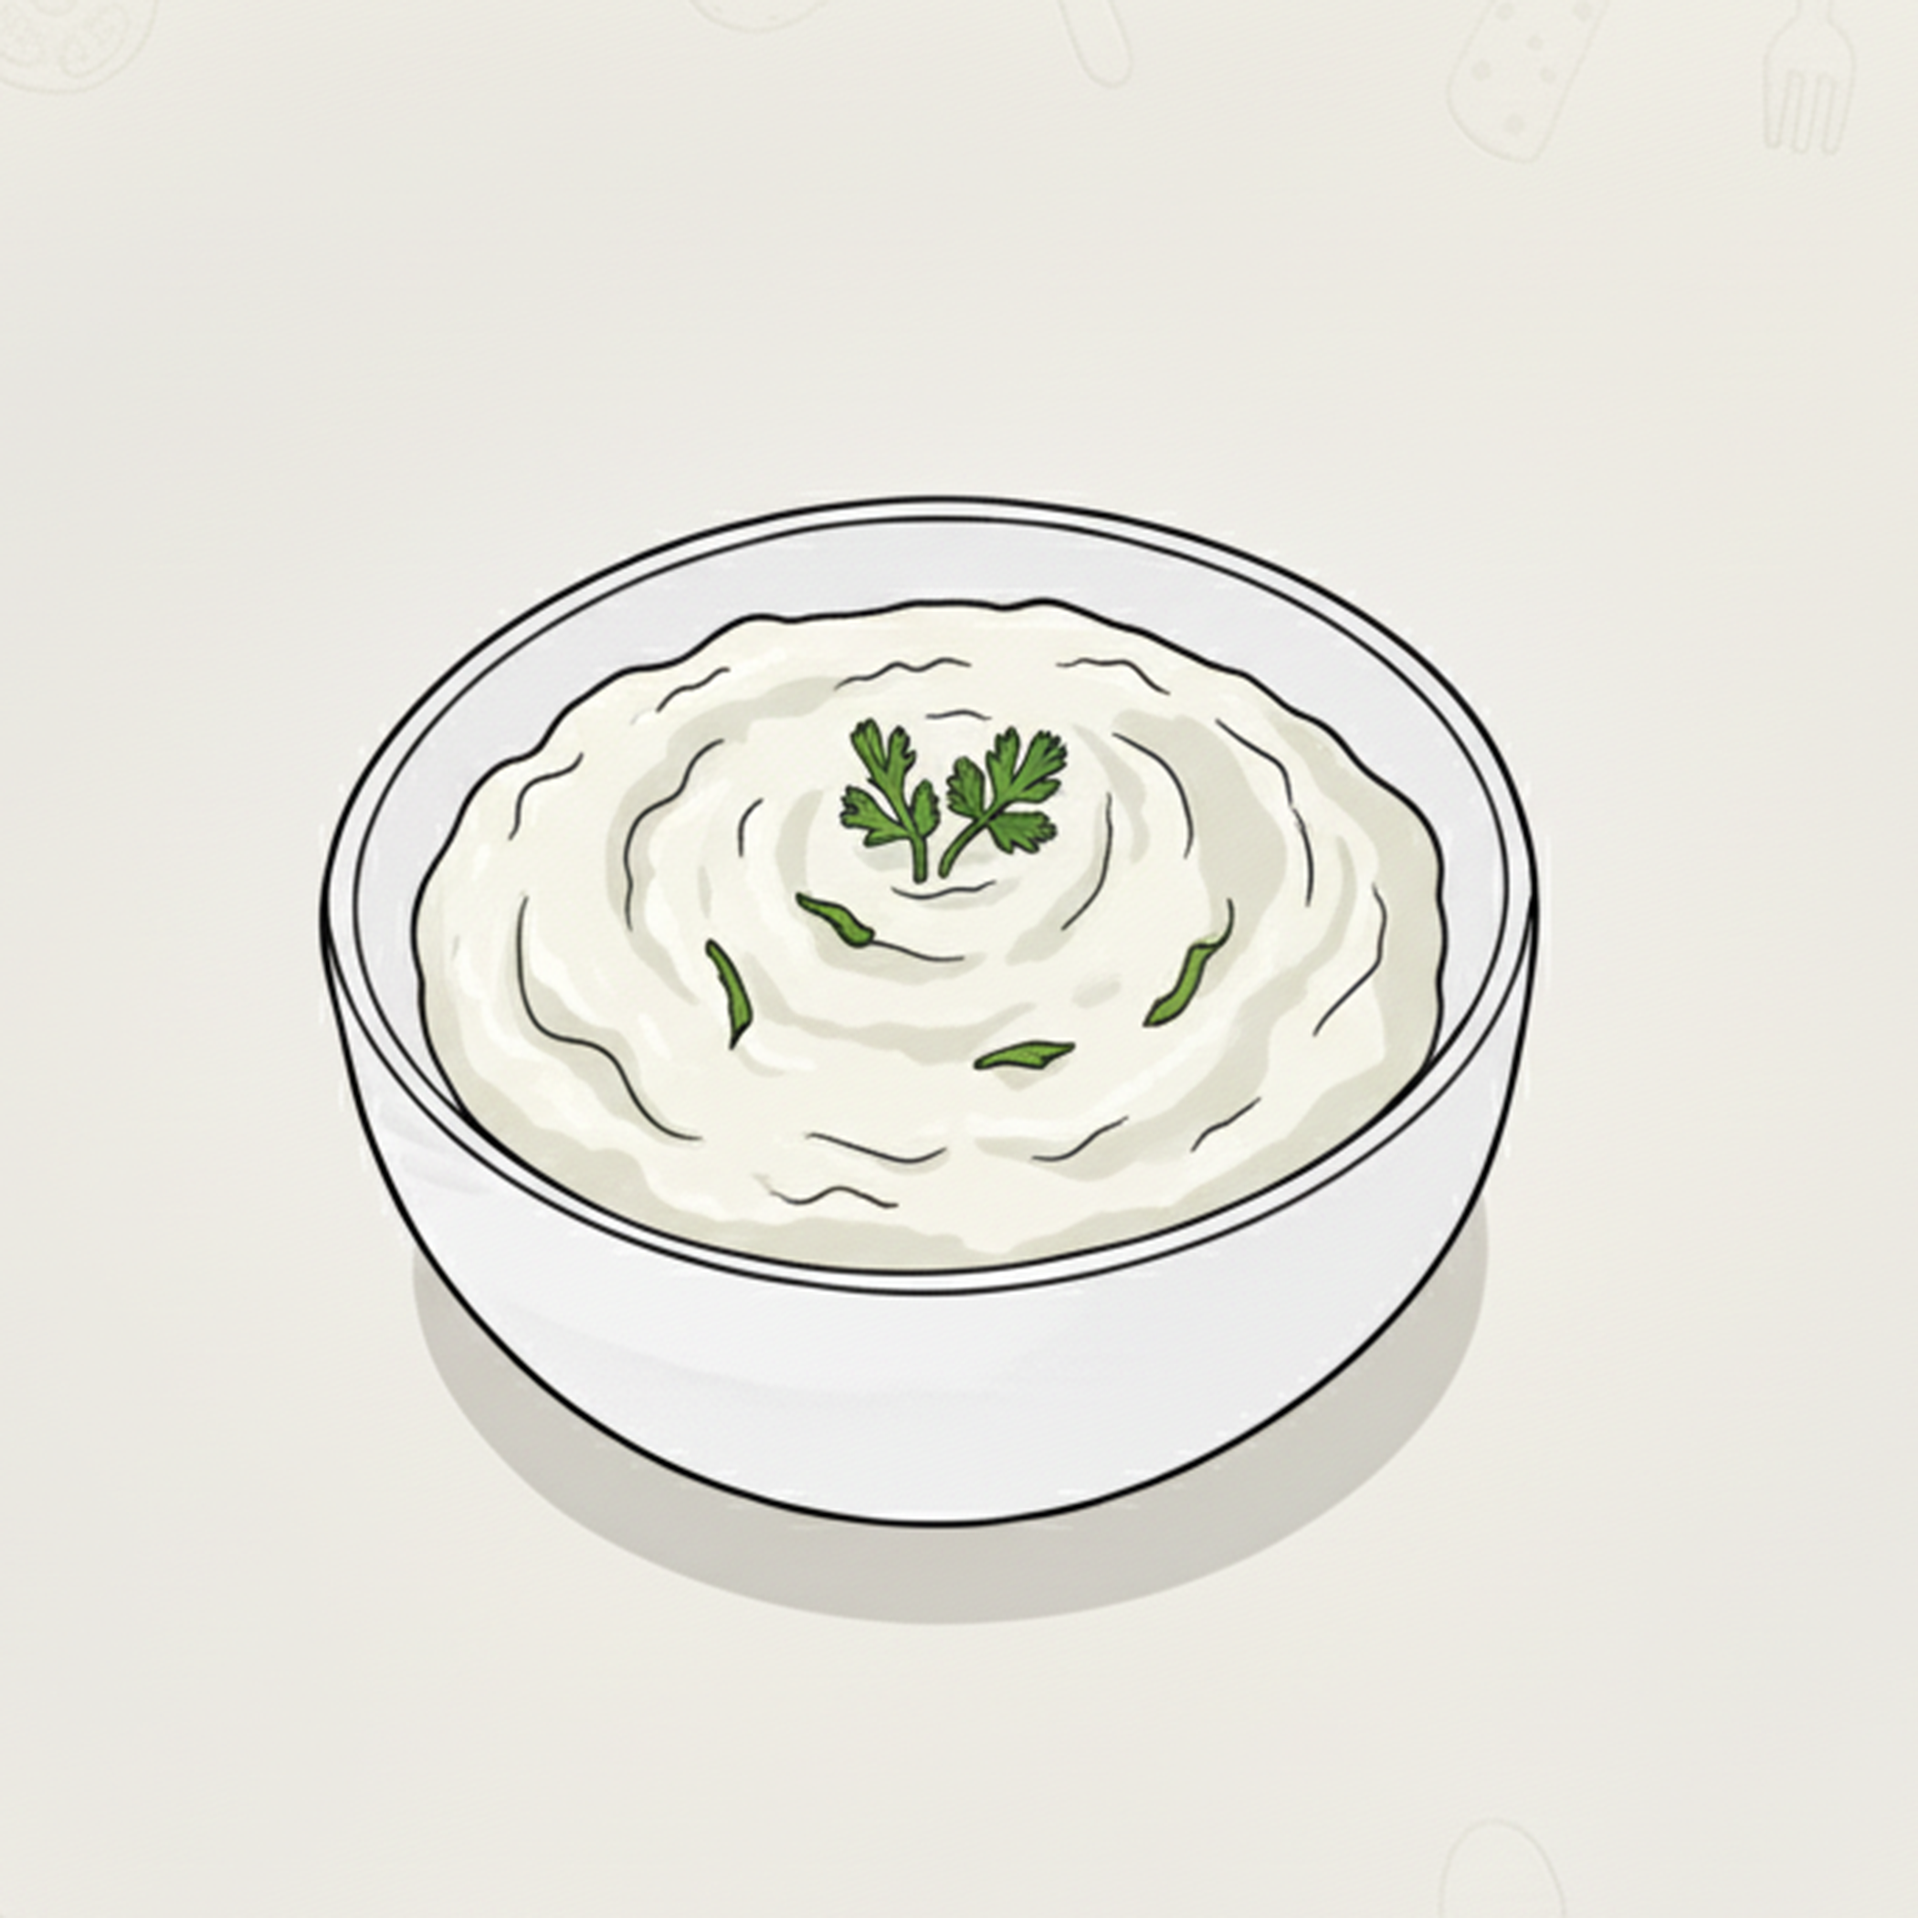
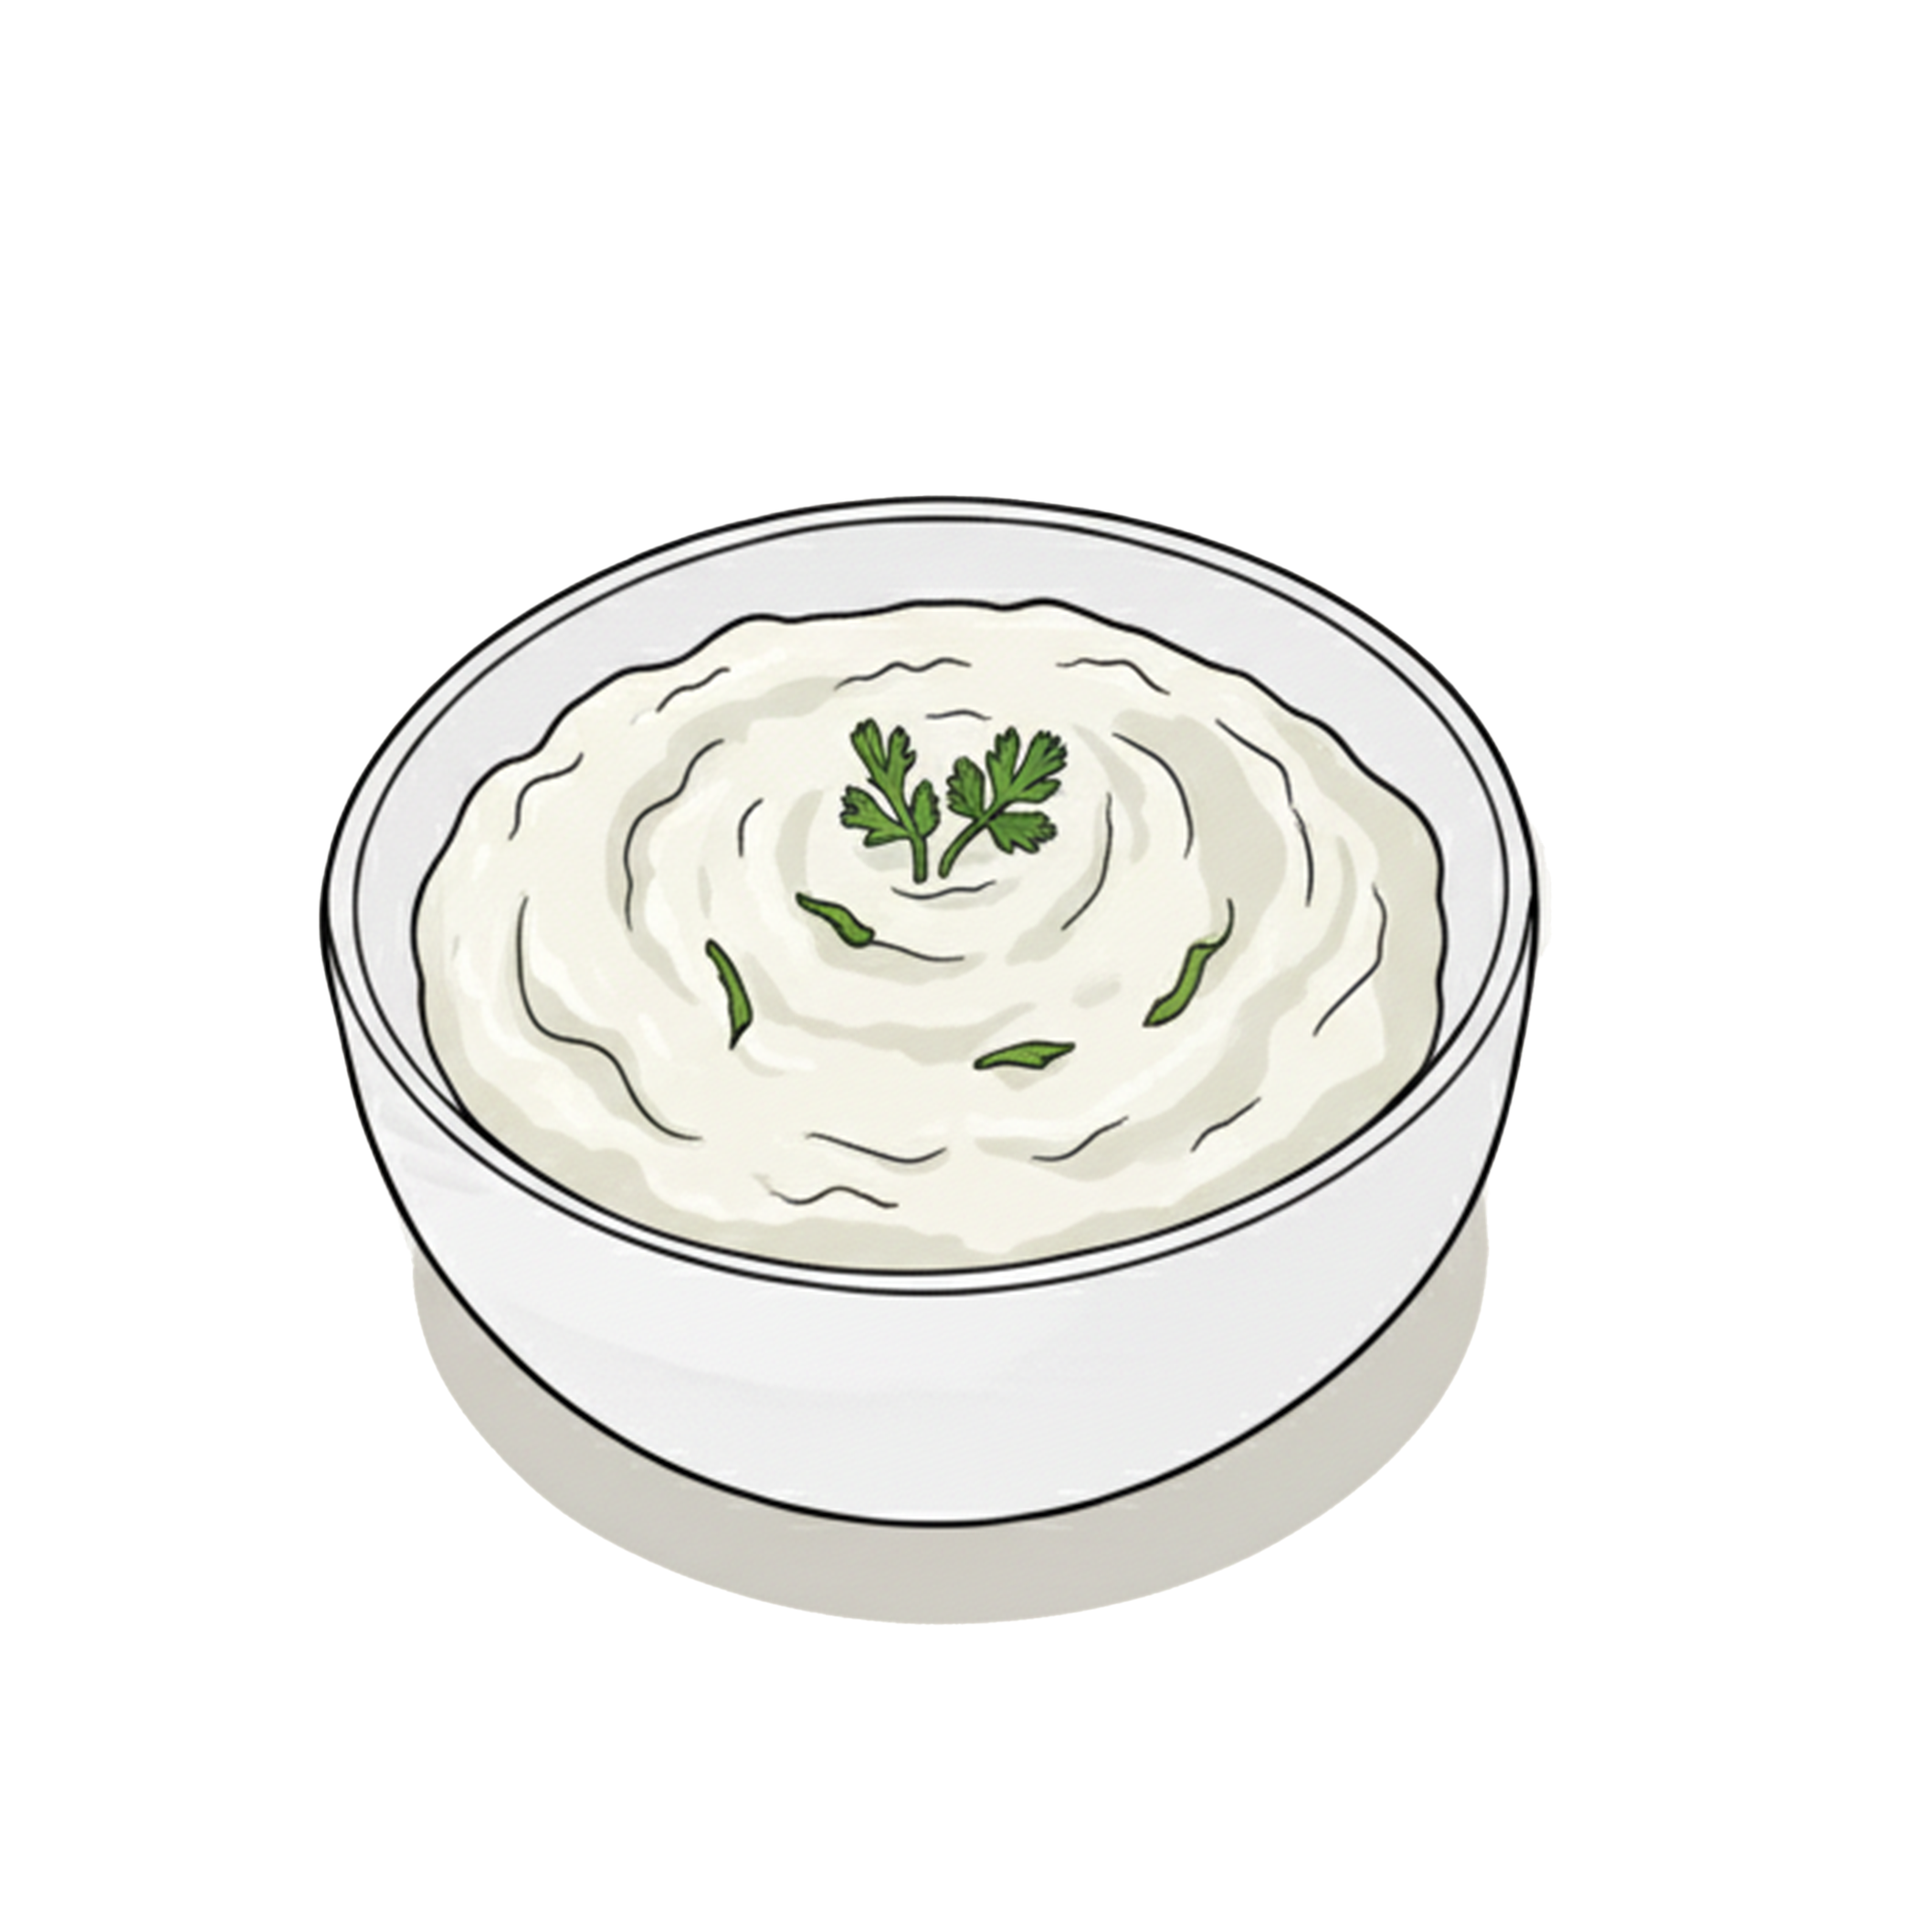
finished addons section

diff --git a/components/User/Add-on/Addons.tsx b/components/User/Add-on/Addons.tsx
@@ -1,32 +1,32 @@
-import { useMockSpecials } from "@/hooks/use-MockSpecials";
+import { useMockAddons } from "@/hooks/use-MockAddons";
 import React from "react";
 import {
-  Animated,
-  Dimensions,
-  Easing,
-  Image,
-  Linking,
-  Text,
-  TouchableOpacity,
-  View,
+    Animated,
+    Dimensions,
+    Easing,
+    Image,
+    Linking,
+    Text,
+    TouchableOpacity,
+    View,
 } from "react-native";
 
-const Specials = () => {
+const AddonsItems = () => {
   const screenWidth = Dimensions.get("window").width;
   const width = Math.min(Math.max(screenWidth * 0.45, 300), 130);
   const height = width * 0.8;
   const mobile = 8547266801;
 
   const imageMap: Record<string, any> = {
-    "chickencurry.png": require("../../../assets/User/chickencurry.png"),
-    "beefcurry.png": require("../../../assets/User/beefcurry.png"),
-    "chickenfry.png": require("../../../assets/User/chickenfry.png"),
     "curd.png": require("../../../assets/User/curd.png"),
-    "eggcurry.png": require("../../../assets/User/eggcurry.png"),
+    "chickenfry.png": require("../../../assets/User/chickenfry.png"),
+    "kondattam.png": require("../../../assets/User/kondattam.png"),
+    "pappadam.png": require("../../../assets/User/pappadam.png"),
+    "salad.png": require("../../../assets/User/salad.png"),
   };
 
-  const specials = useMockSpecials();
-  const items = specials.specials;
+  const Addons = useMockAddons();
+  const items = Addons.addons;
   const [cart, setCart] = React.useState<{ [key: string]: number }>({});
 
   const cartAnimation = React.useRef(new Animated.Value(0)).current;
@@ -148,9 +148,6 @@ const Specials = () => {
 
   return (
     <View className="mt-2 gap-3">
-      <Text className="text-faded_black font-semibold text-[17px]">
-        Today&apos;s Special Items
-      </Text>
       {items.map((item) => (
         <View
           key={item.id}
@@ -235,8 +232,6 @@ const Specials = () => {
           </View>
         </View>
       ))}
-
-      {/* Smooth Cart Popup */}
       <Animated.View
         style={{
           transform: [
@@ -302,4 +297,4 @@ const Specials = () => {
   );
 };
 
-export default Specials;
+export default AddonsItems;

diff --git a/app/(user)/Food.tsx b/app/(user)/Food.tsx
@@ -1,7 +1,5 @@
 import FoodSectionWeeklyPlan from "@/components/User/Food/FoodSectionWeeklyPlan";
 import Specials from "@/components/User/Food/Specials";
-import { Feather } from "@expo/vector-icons";
-import { router } from "expo-router";
 import { useRef, useState } from "react";
 import {
   Animated,
@@ -19,7 +17,6 @@ const Food = () => {
   const contentTranslateX = useRef(new Animated.Value(0)).current;
   const weeklyTabScale = useRef(new Animated.Value(1)).current;
   const specialTabScale = useRef(new Animated.Value(1)).current;
-  const backButtonScale = useRef(new Animated.Value(1)).current;
 
   const switchTab = (newTab: string) => {
     if (newTab === tab) return;
@@ -78,38 +75,10 @@ const Food = () => {
     ]).start();
   };
 
-  const animateBackPress = () => {
-    Animated.sequence([
-      Animated.timing(backButtonScale, {
-        toValue: 0.9,
-        duration: 100,
-        easing: Easing.out(Easing.quad),
-        useNativeDriver: true,
-      }),
-      Animated.timing(backButtonScale, {
-        toValue: 1,
-        duration: 100,
-        easing: Easing.out(Easing.quad),
-        useNativeDriver: true,
-      }),
-    ]).start();
-  };
-
   return (
     <ScrollView>
       <View className="mt-16 mx-5 gap-3">
         <View className="flex-row gap-2 items-center">
-          <Animated.View style={{ transform: [{ scale: backButtonScale }] }}>
-            <TouchableOpacity
-              onPress={() => {
-                animateBackPress();
-                router.push("/(user)");
-              }}
-              activeOpacity={0.7}
-            >
-              <Feather name="chevron-left" size={20} color={"#212529"} />
-            </TouchableOpacity>
-          </Animated.View>
           <Text className="text-[#212529] font-semibold text-[16px]">
             Food Section
           </Text>

diff --git a/app/(user)/Add-ons.tsx b/app/(user)/Add-ons.tsx
@@ -1,18 +1,18 @@
-import { Feather } from '@expo/vector-icons'
-import React from 'react'
-import { ScrollView, Text, View } from 'react-native'
+import AddonsItems from "@/components/User/Add-on/Addons";
+import React from "react";
+import { ScrollView, Text, View } from "react-native";
 
 const Addons = () => {
   return (
     <ScrollView>
-      <View>
-        <View>
-          <Feather name='chevron-left' size={20} color={'#6C757D'}/>
-          <Text>Food Section</Text>
-        </View>
+      <View className="mt-16 mx-5 gap-3">
+          <Text className="text-[#212529] font-semibold text-[16px]">
+            Add-on item&apos;s
+          </Text>
+        <AddonsItems/>
       </View>
     </ScrollView>
-  )
-}
+  );
+};
 
-export default Addons
+export default Addons;

diff --git a/hooks/use-MockAddons.ts b/hooks/use-MockAddons.ts
@@ -1,0 +1,5 @@
+import Addons from "../mock/add-ons.json";
+
+export const useMockAddons = () => {
+  return Addons;
+};
